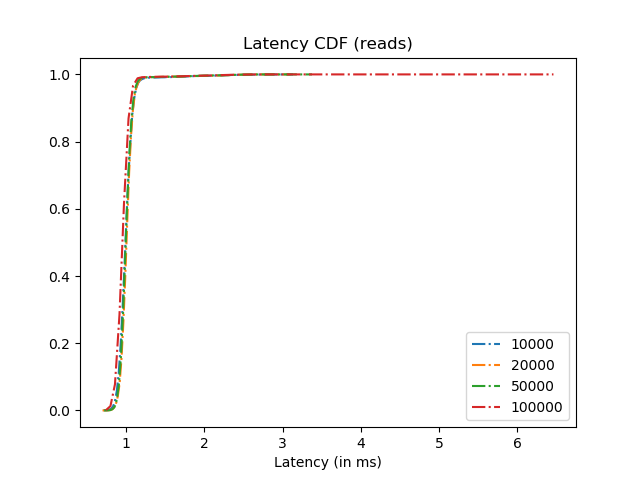
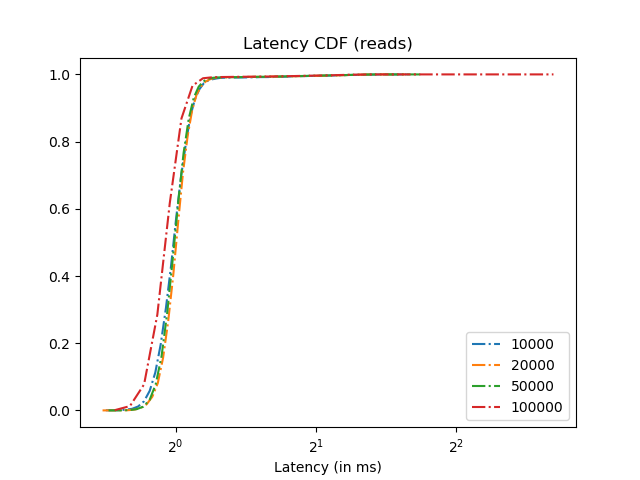
Added logging for load balancer

diff --git a/server/load_balancer.go b/server/load_balancer.go
@@ -3,6 +3,7 @@ package main
 import (
 	"context"
 	"errors"
+	"fmt"
 	"math/rand"
 	"net"
 	"os"
@@ -71,6 +72,7 @@ type serverNameMAP map[string]int
 var (
 	queryID       int64 = 0
 	queryIDMu           = sync.Mutex{}
+	queryTimeMu         = sync.Mutex{}
 	clientMap           = make(clientMAP)
 	serverNameMap       = make(serverNameMAP)
 	serverList    []ServerInstance
@@ -94,7 +96,9 @@ type setValueChan struct {
 	code     int32
 }
 
-const concurrentPuts bool = false
+const concurrentPuts bool = true
+
+var queryFile *os.File
 
 // CanContactServer checks whether a given clientID can contact the given server.
 // Returns 1 if it can, 0 if not. And returns -1 if clientID is invalid.
@@ -415,6 +419,8 @@ func (lb *loadBalancer) GetValue(ctx context.Context, in *pb.Request) (*pb.Respo
 
 func (lb *loadBalancer) SetValue(ctx context.Context, in *pb.Request) (*pb.Response, error) {
 
+	funcStart := time.Now()
+
 	var successCode int32 = 0
 	var val string = "NULL"
 
@@ -545,6 +551,9 @@ func (lb *loadBalancer) SetValue(ctx context.Context, in *pb.Request) (*pb.Respo
 			}
 		}
 	}
+	funcElapsed := time.Since(funcStart)
+	writeString := fmt.Sprintf("%v\n", funcElapsed)
+	queryFile.WriteString(writeString)
 
 	log.Debugf("SetValue successful puts: %v\n", successfulPuts)
 	if successfulPuts > 0 {
@@ -680,6 +689,10 @@ func main() {
 		s := ServerInstance{serverID: i, name: name, conn: c, recPort: recPort[i], mode: 0, lock: sync.Mutex{}}
 		serverList[i] = s
 	}
+
+	// Open file for writing
+	queryFile, _ = os.Create("/tmp/" + ip_port)
+	defer queryFile.Close()
 
 	// Start the load balancer and listen for requests
 	lis, err := net.Listen("tcp", ip_port)

diff --git a/util/project2_scripts/plot.py b/util/project2_scripts/plot.py
@@ -17,6 +17,8 @@ recover_data = {'reads': [], 'writes': []}
 
 # Read the simple reads and writes
 for fil in simple:
+    fig, ax = plt.subplots()
+
     for it in range(len(num_keys)):
         key = num_keys[it]
         with open(path + '/' + fil + str(key) + '.log') as f:
@@ -32,13 +34,13 @@ for fil in simple:
         cum_vt = np.cumsum(vt).astype(float)
         cum_vt /= cum_vt[-1]
 
-        plt.plot(bt[:-1], cum_vt, '-.', label=str(key))
+        ax.plot(bt[:-1], cum_vt, '-.', label=str(key))
 
-    plt.title('Latency CDF (' + fil.split("_")[1] + ')')
-    plt.xlabel('Latency (in ms)')
-    plt.legend()
+    ax.set_title('Latency CDF (' + fil.split("_")[1] + ')')
+    ax.set_xlabel('Latency (in ms)')
+    ax.set_xscale('log', basex=2)
+    ax.legend()
     plt.savefig('latency_cdf_' + fil.split("_")[1] + '.png')
-    plt.close()
 
 # Get the performance of reads and writes when error occurred
 for fil in error:
